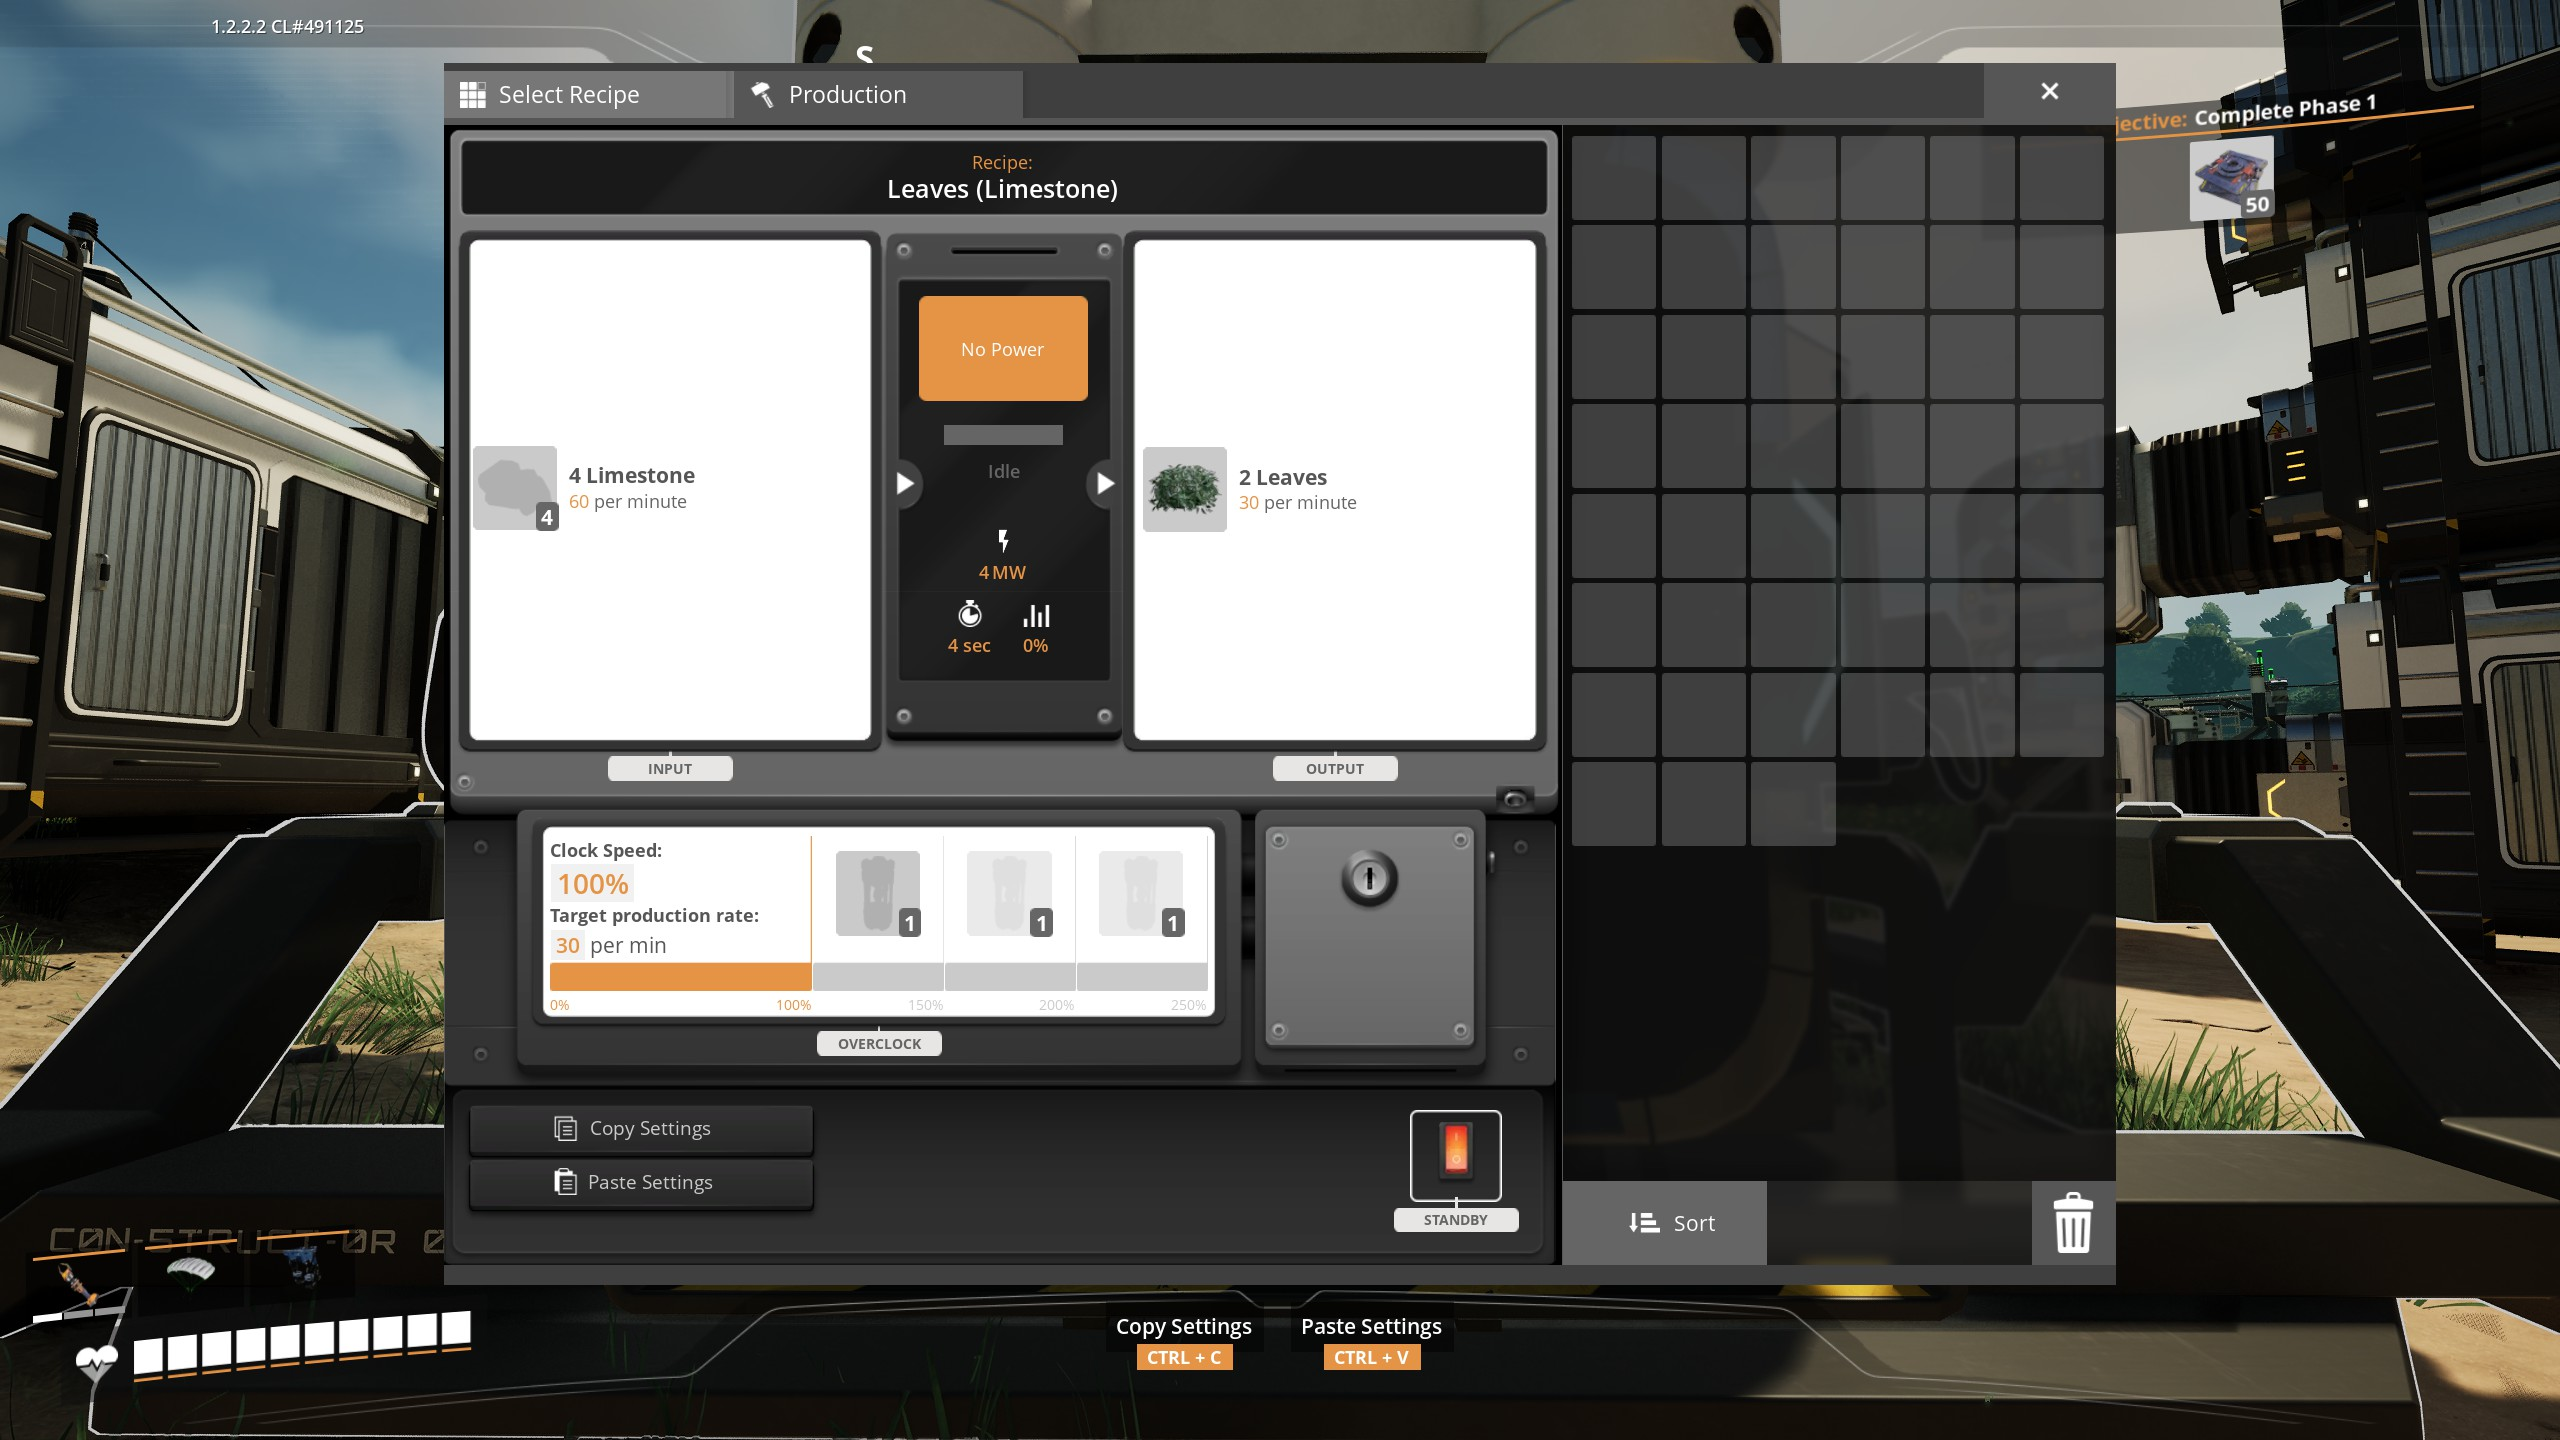
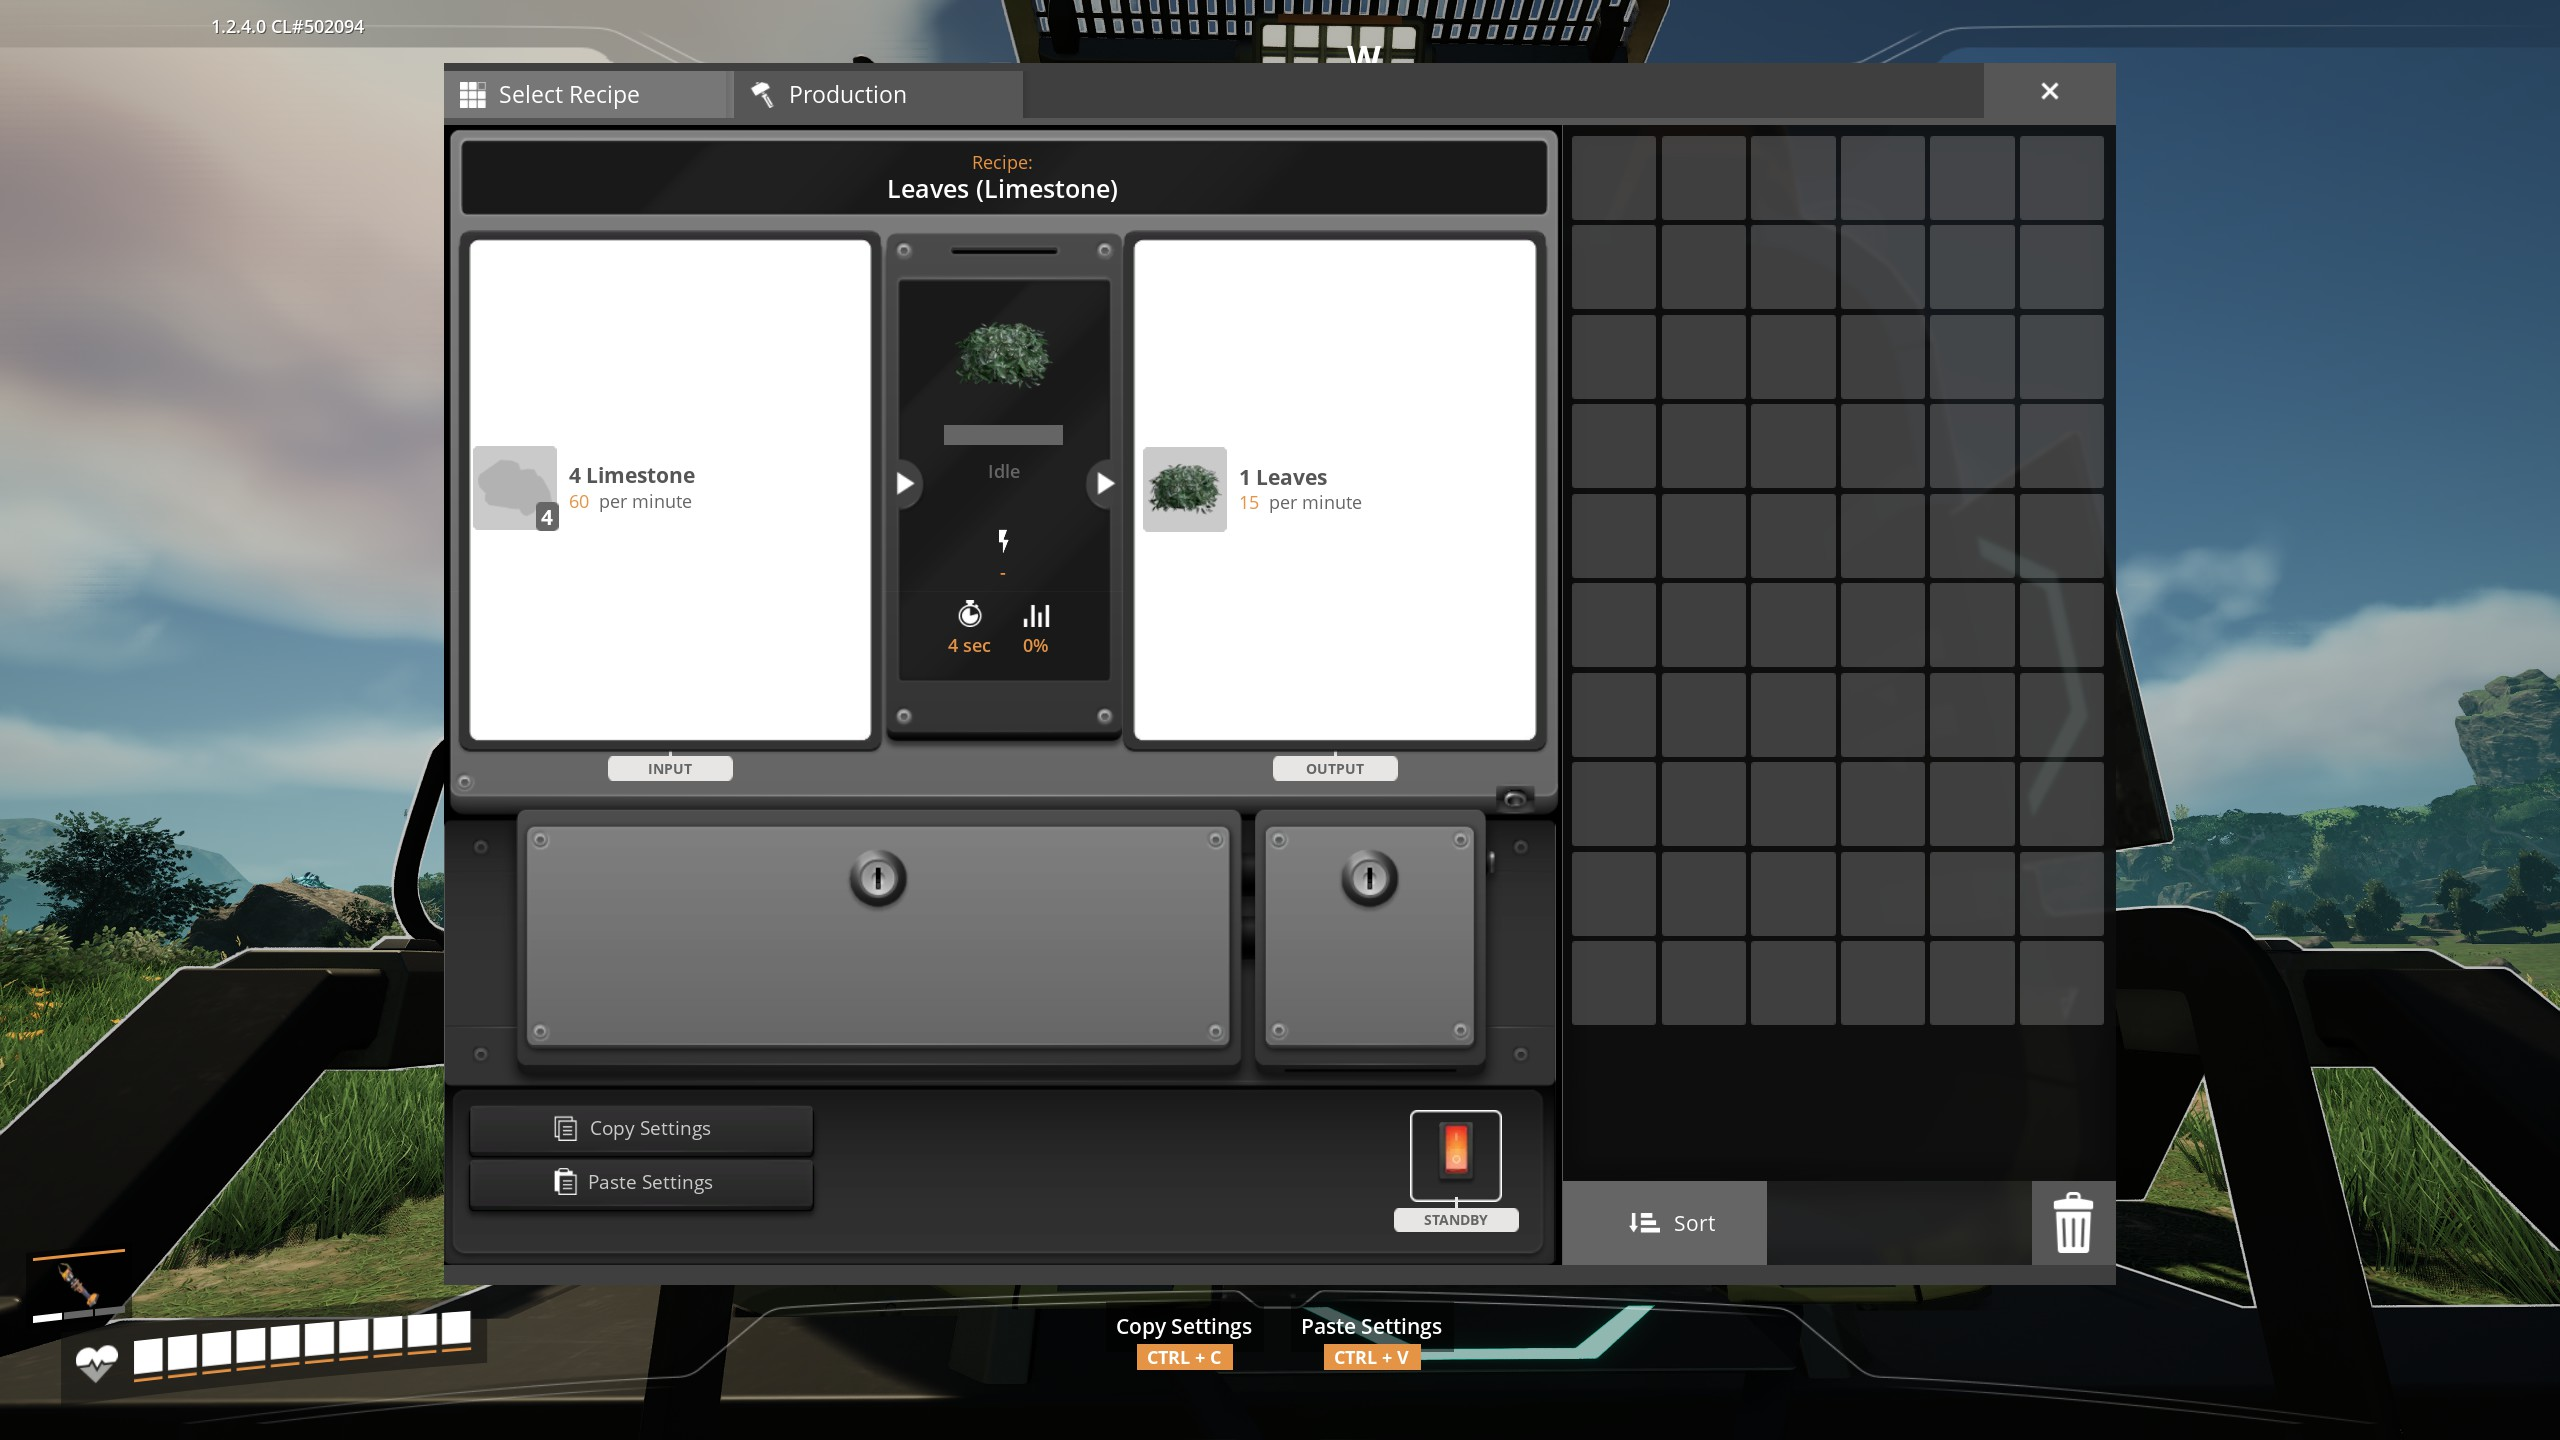
Organic Limestone 1.3
- Updated to latest SML (worked previously, tho I thought I'd just do it).
- Minor early recipe tweaks (Limestone -> Leaves, Limestone -> Wood).

diff --git a/OrganicLimestone/CHANGELOG.md b/OrganicLimestone/CHANGELOG.md
@@ -5,6 +5,31 @@ All notable changes to this project will be documented in this file.
 The format is based on [Keep a Changelog](https://keepachangelog.com/en/1.1.0/),
 and this project adheres to [Semantic Versioning](https://semver.org/spec/v2.0.0.html).
 
+## [1.3.0] - 2026-06-10
+
+This is just a minor updated that "made" me update the mod itself to latest SML version. The mod worked prior to this, but I just decided to do it and killed two birds with one stone.
+I just found (after a hiatus without playing Satisfactory) that the outputs of both the Wood and Leaves were a bit overtuned (specially the Wood one) so I just "downgraded" them just to make sure both respect the intended progression.
+
+### Changed
+
+- [Tweaked] Recipe to produce Leaves from Limestone in the Constructor (Unlocked at Tier 0 - HUB Upgrade 3)
+
+```cpp
+4 Limestone (60 per min) => 1 Leaves (15 per min)
+Produced in: Constructor, Crafting Bench
+Production Rate: 15 per min
+Cycle Time: 4 sec
+```
+
+- [Tweaked] Recipe to produce Wood from Limestone in the Constructor (Unlocked at Tier 0 - HUB Upgrade 3)
+
+```cpp
+12 Limestone (72 per min) => 1 Wood (6 per min)
+Produced in: Constructor, Crafting Bench
+Production Rate: 6 per min
+Cycle Time: 10 sec
+```
+
 ## [1.2.0] - 2026-06-10
 
 This update was brought to you courtesy of an issue someone posted over on the Github page [Suggestion: Alt recipe for refinery/blender](https://github.com/ShinryuAspect/SatisfactoryModsCollection/issues/1).
